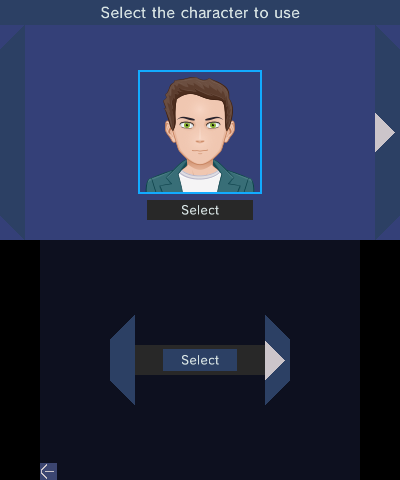
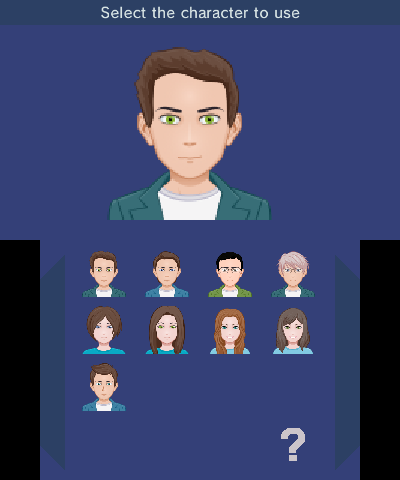
WIP: New character selector overlay.

diff --git a/3ds/source/Overlays/Selectors/CharacterSelector.cpp b/3ds/source/Overlays/Selectors/CharacterSelector.cpp
@@ -28,36 +28,73 @@
 #include "CharacterSelector.hpp"
 #include "Utils.hpp"
 
+#define CHARS_PER_PAGE 15
 
-/* Go to the previous Character. */
-void CharacterSelector::PrevChar() {
-	if (this->Res > 0) {
-		this->SwipeDir = true;
-		this->DoSwipe = true;
+
+/*
+	Draw a page of 15 characters.
+
+	const size_t Page: The page to draw.
+	const int AddOffs: The additional offsets to draw to.
+*/
+void CharacterSelector::DrawPage(const size_t Page, const int AddOffs) {
+	for (size_t Idx = (Page * CHARS_PER_PAGE), Idx2 = 0; Idx < (Page * CHARS_PER_PAGE) + CHARS_PER_PAGE && Idx < Utils::GetCharSheetSize(); Idx++, Idx2++) {
+		Gui::DrawSprite(GFX::Characters, Idx, this->Characters[Idx2].X + AddOffs, this->Characters[Idx2].Y, 0.4f, 0.4f);
 	};
 };
 
 
-/* Go to the next Character. */
-void CharacterSelector::NextChar() {
-	if (this->Res < (int)Utils::GetCharSheetSize() - 1) {
+/*
+	Main character select logic.
+
+	const uint8_t Idx: The click index.
+
+	If 15: It will randomly select the character.
+*/
+void CharacterSelector::SelectCharacter(const uint8_t Idx) {
+	if (Idx == 15) {
+		this->Res = (rand() % (Utils::GetCharSheetSize() - 1));
+		this->Done = true;
+		return;
+	};
+
+	if ((this->Page * CHARS_PER_PAGE) + Idx < Utils::GetCharSheetSize()) {
+		this->Res = (this->Page * CHARS_PER_PAGE) + Idx;
+		this->Done = true;
+	}
+};
+
+
+/* Go to the previous page. */
+void CharacterSelector::PrevPage() {
+	if (this->Page > 0) {
+		this->SwipeDir = true;
+		this->DoSwipe = true;
+	}
+};
+
+
+/* Go to the next page. */
+void CharacterSelector::NextPage() {
+	if (this->CanGoNext()) {
 		this->SwipeDir = false;
 		this->DoSwipe = true;
 	}
 };
 
 
-/* Set the Select State. */
-void CharacterSelector::Select() { this->Done = true; };
-void CharacterSelector::Cancel() { this->Res = -1, this->Done = true; };
+void CharacterSelector::Cancel() { this->Done = true; };
 
 
+/* Returns, if you can go to the next page. */
+bool CharacterSelector::CanGoNext() const {
+	return ((this->Page * CHARS_PER_PAGE) + CHARS_PER_PAGE < Utils::GetCharSheetSize());
+};
+
+
+/* Main action. */
 int CharacterSelector::Action() {
-	if (Utils::GetCharSheetSize() == 0) return -1;
-
-	Pointer::OnTop = true;
-	Pointer::SetPos(0, 0);
-	if (this->Res > (int)Utils::GetCharSheetSize() - 1) this->Res = Utils::GetCharSheetSize() - 1;
+	if (Utils::GetCharSheetSize() == 0) return 0;
 
 	while(aptMainLoop() && !this->FullDone) {
 		Gui::clearTextBufs();
@@ -68,80 +105,45 @@ int CharacterSelector::Action() {
 		GFX::DrawTop();
 		Gui::DrawStringCentered(0, 3, 0.6f, TEXT_COLOR, Lang::Get("CHARACTER_SELECT_TITLE"), 395);
 
-		/* Display Characters. */
 		if (this->Res < (int)Utils::GetCharSheetSize()) {
-			/* Current Character. */
-			if (this->DoSwipe || this->InitialSwipe) {
-				if (this->SwipeDir) { // Swipe to -> (Last).
-					Gui::DrawSprite(GFX::Characters, this->Res, 140 + this->CurPos, 72);
-					Gui::DrawSprite(GFX::Sprites, sprites_outline_idx, 138 + this->CurPos, 70);
-
-				} else { // Swipe to <- (Next).
-					Gui::DrawSprite(GFX::Characters, this->Res, 140 + this->CurPos, 72);
-					Gui::DrawSprite(GFX::Sprites, sprites_outline_idx, 138 + this->CurPos, 70);
-				}
-
-			} else { // No Swipe.
-				Gui::DrawSprite(GFX::Characters, this->Res, 140, 72);
-				Gui::DrawSprite(GFX::Sprites, sprites_outline_idx, 138, 70);
-			}
-
-
-			if (this->DoSwipe) {
-				/* Prev Character. */
-				if (this->Res >= 1) {
-					Gui::DrawSprite(GFX::Characters, this->Res - 1, 140 + this->PrevPos, 72);
-					Gui::DrawSprite(GFX::Sprites, sprites_outline_idx, 138 + this->PrevPos, 70);
-				};
-
-				/* Next Character. */
-				if (this->Res + 1 < (int)Utils::GetCharSheetSize()) {
-					Gui::DrawSprite(GFX::Characters, this->Res + 1, 140 + this->NextPos, 72);
-					Gui::DrawSprite(GFX::Sprites, sprites_outline_idx, 138 + this->NextPos, 70);
-				};
-			}
-		};
-
-		Gui::Draw_Rect(this->Positions[2].X, this->Positions[2].Y, this->Positions[2].W, this->Positions[2].H, KBD_KEYUNPRESSED);
-		Gui::DrawStringCentered(0, this->Positions[2].Y + 2, 0.5f, TEXT_COLOR, Lang::Get("SELECT"), 395);
-
-		/* Draw Edge boxes. */
-		GFX::DrawCornerEdge(true, this->Positions[0].X, this->Positions[0].Y, this->Positions[0].H, this->Res >= 1);
-		GFX::DrawCornerEdge(false, this->Positions[1].X, this->Positions[1].Y, this->Positions[1].H, this->Res + 1 < (int)Utils::GetCharSheetSize());
-		Pointer::Draw();
+			Gui::DrawSprite(GFX::Characters, this->Res, 100, 40, 1.5f, 1.5f);
+		}
 
 		if (_3DZwei::CFG->DoAnimation() && _3DZwei::CFG->DoFade()) {
 			if (this->FAlpha > 0) Gui::Draw_Rect(0, 0, 400, 240, C2D_Color32(0, 0, 0, this->FAlpha));
-		}
+		};
 
 		GFX::DrawBottom();
-		Gui::Draw_Rect(0, 0, 320, 240, C2D_Color32(0, 0, 0, 190)); // Darker screen.
-		GFX::DrawCornerEdge(true, this->BottomPos[0].X, this->BottomPos[0].Y, this->BottomPos[0].H, this->Res >= 1);
-		GFX::DrawCornerEdge(false, this->BottomPos[1].X, this->BottomPos[1].Y, this->BottomPos[1].H, this->Res + 1 < (int)Utils::GetCharSheetSize());
 
-		Gui::Draw_Rect(95, 105, 130, 30, KBD_KEYUNPRESSED);
-		Gui::Draw_Rect(this->BottomPos[2].X, this->BottomPos[2].Y, this->BottomPos[2].W, this->BottomPos[2].H, CORNER_COLOR);
-		Gui::DrawStringCentered(0, this->BottomPos[2].Y + 3, 0.5f, TEXT_COLOR, Lang::Get("SELECT"));
+		if (this->DoSwipe || this->InitialSwipe) { // We swipe.
+			this->DrawPage(this->Page, this->CurPos); // Draw current page.
 
-		Gui::Draw_Rect(this->BottomPos[3].X, this->BottomPos[3].Y, this->BottomPos[3].W, this->BottomPos[3].H, KBD_KEYPRESSED); // Back.
-		Gui::DrawSprite(GFX::Sprites, sprites_back_btn_idx, this->BottomPos[3].X, this->BottomPos[3].Y);
+			if (this->SwipeDir) this->DrawPage(this->Page - 1, this->PrevPos);
+			else this->DrawPage(this->Page + 1, this->NextPos);
+
+		} else { // No swipe.
+			this->DrawPage(this->Page, 0); // Draw current page only.
+		};
+
+		Gui::DrawSprite(GFX::Sprites, sprites_random_idx, this->Characters[15].X, this->Characters[15].Y);
+		GFX::DrawCornerEdge(true, this->BottomPos[0].X, this->BottomPos[0].Y, this->BottomPos[0].H, this->Page > 0);
+		GFX::DrawCornerEdge(false, this->BottomPos[1].X, this->BottomPos[1].Y, this->BottomPos[1].H, this->CanGoNext());
+		Pointer::Draw();
 
 		if (_3DZwei::CFG->DoAnimation() && _3DZwei::CFG->DoFade()) {
 			if (this->FAlpha > 0) Gui::Draw_Rect(0, 0, 320, 240, C2D_Color32(0, 0, 0, this->FAlpha));
-		}
+		};
 
 		C3D_FrameEnd(0);
-		this->CharLogic();
+		this->Handler();
 	}
 
-	Pointer::OnTop = false;
-	Pointer::SetPos(0, 0);
 	return this->Res;
 };
 
 
-/* The Main Logic of this Overlay. */
-void CharacterSelector::CharLogic() {
+/* Action Handler. */
+void CharacterSelector::Handler() {
 	hidScanInput();
 	touchPosition T;
 	hidTouchRead(&T);
@@ -169,7 +171,7 @@ void CharacterSelector::CharLogic() {
 
 			if (this->FAlpha >= 255) this->FullDone = true;
 		}
-	}
+	};
 
 	/* Initial Swipe. */
 	if (this->InitialSwipe) {
@@ -178,11 +180,11 @@ void CharacterSelector::CharLogic() {
 			return;
 		}
 
-		if (this->Cubic < 400.0f) {
-			this->Cubic = std::lerp(this->Cubic, 401.0f, 0.2f);
-			this->CurPos = -400 + this->Cubic;
+		if (this->Cubic < 320.0f) {
+			this->Cubic = std::lerp(this->Cubic, 321.0f, 0.1f);
+			this->CurPos = -320 + this->Cubic;
 
-			if (this->Cubic >= 400.0f) {
+			if (this->Cubic >= 320.0f) {
 				this->CurPos = 0.0f, this->Cubic = 0.0f, this->InitialSwipe = false;
 			}
 		}
@@ -193,22 +195,22 @@ void CharacterSelector::CharLogic() {
 	/* Swipe Logic. */
 	if (this->DoSwipe) {
 		if (!_3DZwei::CFG->DoAnimation() || Repeat) {
-			this->CurPos = 0.0f, this->PrevPos = -400.0f, this->NextPos = 400.0f;
+			this->CurPos = 0.0f, this->PrevPos = -320.0f, this->NextPos = 320.0f;
 			this->Cubic = 0.0f, this->DoSwipe = false;
-			this->Res = (this->SwipeDir ? (this->Res - 1) : (this->Res + 1));
+			this->Page = (this->SwipeDir ? (this->Page - 1) : (this->Page + 1));
 			return;
 		}
 
-		if (this->Cubic < 400.0f) {
-			this->Cubic = std::lerp(this->Cubic, 401.0f, 0.2f);
+		if (this->Cubic < 320.0f) {
+			this->Cubic = std::lerp(this->Cubic, 321.0f, 0.1f);
 
-			if (this->SwipeDir) this->CurPos = this->Cubic, this->PrevPos = -400 + this->Cubic; // -> (Last).
-			else this->CurPos = 0 - this->Cubic, this->NextPos = 400 - this->Cubic; // <- (Next).
+			if (this->SwipeDir) this->CurPos = this->Cubic, this->PrevPos = -320 + this->Cubic; // -> (Last).
+			else this->CurPos = 0 - this->Cubic, this->NextPos = 320 - this->Cubic; // <- (Next).
 
-			if (this->Cubic >= 400.0f) {
-				this->CurPos = 0.0f, this->PrevPos = -400.0f, this->NextPos = 400.0f;
+			if (this->Cubic >= 320.0f) {
+				this->CurPos = 0.0f, this->PrevPos = -320.0f, this->NextPos = 320.0f;
 				this->Cubic = 0.0f, this->DoSwipe = false;
-				this->Res = (this->SwipeDir ? (this->Res - 1) : (this->Res + 1));
+				this->Page = (this->SwipeDir ? (this->Page - 1) : (this->Page + 1));
 			}
 		}
 
@@ -216,17 +218,14 @@ void CharacterSelector::CharLogic() {
 	};
 
 	Pointer::ScrollHandling(Held);
-	if (Repeat & KEY_L) this->PrevChar();
-	if (Repeat & KEY_R) this->NextChar();
-	if (Down & KEY_B) this->Cancel();
-	if (Down & KEY_START) this->Select();
-
+	if (Down & KEY_B || Down & KEY_START) this->Cancel();
+	if (Repeat & KEY_L) this->PrevPage();
+	if (Repeat & KEY_R) this->NextPage();
 
 	if (Repeat & KEY_A) {
 		bool Clicked = false;
-
-		for (size_t Idx = 0; Idx < 2; Idx++) {
-			if (Pointer::Clicked(this->Positions[Idx], true)) {
+		for (auto &Position : this->BottomPos) {
+			if (Pointer::Clicked(Position, true)) {
 				Clicked = true;
 				break;
 			}
@@ -236,25 +235,27 @@ void CharacterSelector::CharLogic() {
 	};
 
 	if (Down & KEY_A) {
-		Pointer::Clicked(this->Positions[2], true);
+		for (auto &Position : this->Characters) {
+			if (Pointer::Clicked(Position, true)) break;
+		}
 	};
 
 	if (Repeat & KEY_TOUCH) {
 		bool Clicked = false;
 
-		for (size_t Idx = 0; Idx < 2; Idx++) {
-			if (Touched(this->BottomPos[Idx], T, true)) {
+		for (auto &Position : this->BottomPos) {
+			if (Touched(Position, T, true)) {
 				Clicked = true;
 				break;
-			}
+			};
 		}
 
 		if (Clicked) return;
 	};
 
 	if (Down & KEY_TOUCH) {
-		for (size_t Idx = 0; Idx < 2; Idx++) {
-			if (Touched(this->BottomPos[2 + Idx], T, true)) break;
+		for (auto &Position : this->Characters) {
+			if (Touched(Position, T, true)) break;
 		}
 	};
 };

diff --git a/3ds/include/Overlays/Selectors/CharacterSelector.hpp b/3ds/include/Overlays/Selectors/CharacterSelector.hpp
@@ -33,31 +33,48 @@
 
 class CharacterSelector {
 public:
-	CharacterSelector(const int8_t OldSelection) : Res(OldSelection) { };
+	CharacterSelector(const int OldSelection) : Res(OldSelection) { };
 	int Action();
 private:
-	int Res = 0, PrevPos = -400, CurPos = -400, NextPos = 400;
+	size_t Page = 0;
+	int Res = 0, PrevPos = -320, CurPos = -320, NextPos = 320;
 	bool Done = false, FullDone = false, FadeIn = true, SwipeDir = true, DoSwipe = false, InitialSwipe = true;
 	float Cubic = 0.0f;
-	uint8_t FAlpha = 255;
+	int16_t FAlpha = 255;
 
-	void PrevChar();
-	void NextChar();
-	void Select();
+	void DrawPage(const size_t Page, const int AddOffs);
+	void SelectCharacter(const uint8_t Idx);
+	void PrevPage();
+	void NextPage();
+	bool CanGoNext() const;
 	void Cancel();
-	void CharLogic();
-
-	const std::vector<FuncCallback> Positions = {
-		{ 0, 25, 25, 215, [this]() { this->PrevChar(); } },
-		{ 375, 25, 25, 215, [this]() { this->NextChar(); } },
-		{ 147, 200, 106, 20, [this]() { this->Select(); } }
-	};
+	void Handler();
 
 	const std::vector<FuncCallback> BottomPos = {
-		{ 70, 75, 25, 90, [this]() { this->PrevChar(); } },
-		{ 225, 75, 25, 90, [this]() { this->NextChar(); } },
-		{ 123, 109, 74, 22, [this]() { this->Select(); } },
-		{ 0, 223, 17, 17, [this]() { this->Cancel(); } }
+		{ 0, 15, 25, 215, [this]() { this->PrevPage(); } },
+		{ 295, 15, 25, 215, [this]() { this->NextPage(); } }
+	};
+
+	const std::vector<FuncCallback> Characters = {
+		{ 40, 9, 48, 48, [this]() { this->SelectCharacter(0); } },
+		{ 103, 9, 48, 48, [this]() { this->SelectCharacter(1); } },
+		{ 166, 9, 48, 48, [this]() { this->SelectCharacter(2); } },
+		{ 229, 9, 48, 48, [this]() { this->SelectCharacter(3); } },
+
+		{ 40, 66, 48, 48, [this]() { this->SelectCharacter(4); } },
+		{ 103, 66, 48, 48, [this]() { this->SelectCharacter(5); } },
+		{ 166, 66, 48, 48, [this]() { this->SelectCharacter(6); } },
+		{ 229, 66, 48, 48, [this]() { this->SelectCharacter(7); } },
+
+		{ 40, 123, 48, 48, [this]() { this->SelectCharacter(8); } },
+		{ 103, 123, 48, 48, [this]() { this->SelectCharacter(9); } },
+		{ 166, 123, 48, 48, [this]() { this->SelectCharacter(10); } },
+		{ 229, 123, 48, 48, [this]() { this->SelectCharacter(11); } },
+
+		{ 40, 180, 48, 48, [this]() { this->SelectCharacter(12); } },
+		{ 103, 180, 48, 48, [this]() { this->SelectCharacter(13); } },
+		{ 166, 180, 48, 48, [this]() { this->SelectCharacter(14); } },
+		{ 229, 180, 48, 48, [this]() { this->SelectCharacter(15); } }
 	};
 };
 

diff --git a/3ds/source/Overlays/Game/GameSettings.cpp b/3ds/source/Overlays/Game/GameSettings.cpp
@@ -144,7 +144,7 @@ void GameSettings::SelectPicture(const bool AI) {
 
 			std::unique_ptr<CharacterSelector> Ovl = std::make_unique<CharacterSelector>(this->Params.Characters[1]);
 			const int Res = Ovl->Action();
-			if (Res != -1)  this->Params.Characters[1] = Res;
+			if (Res > -1 && Res < 256) this->Params.Characters[1] = Res;
 
 			this->FAlpha = 255;
 		};
@@ -154,7 +154,7 @@ void GameSettings::SelectPicture(const bool AI) {
 
 		std::unique_ptr<CharacterSelector> Ovl = std::make_unique<CharacterSelector>(this->Params.Characters[0]);
 		const int Res = Ovl->Action();
-		if (Res != -1)  this->Params.Characters[0] = Res;
+		if (Res > -1 && Res < 256) this->Params.Characters[0] = Res;
 
 		this->FAlpha = 255;
 	}
